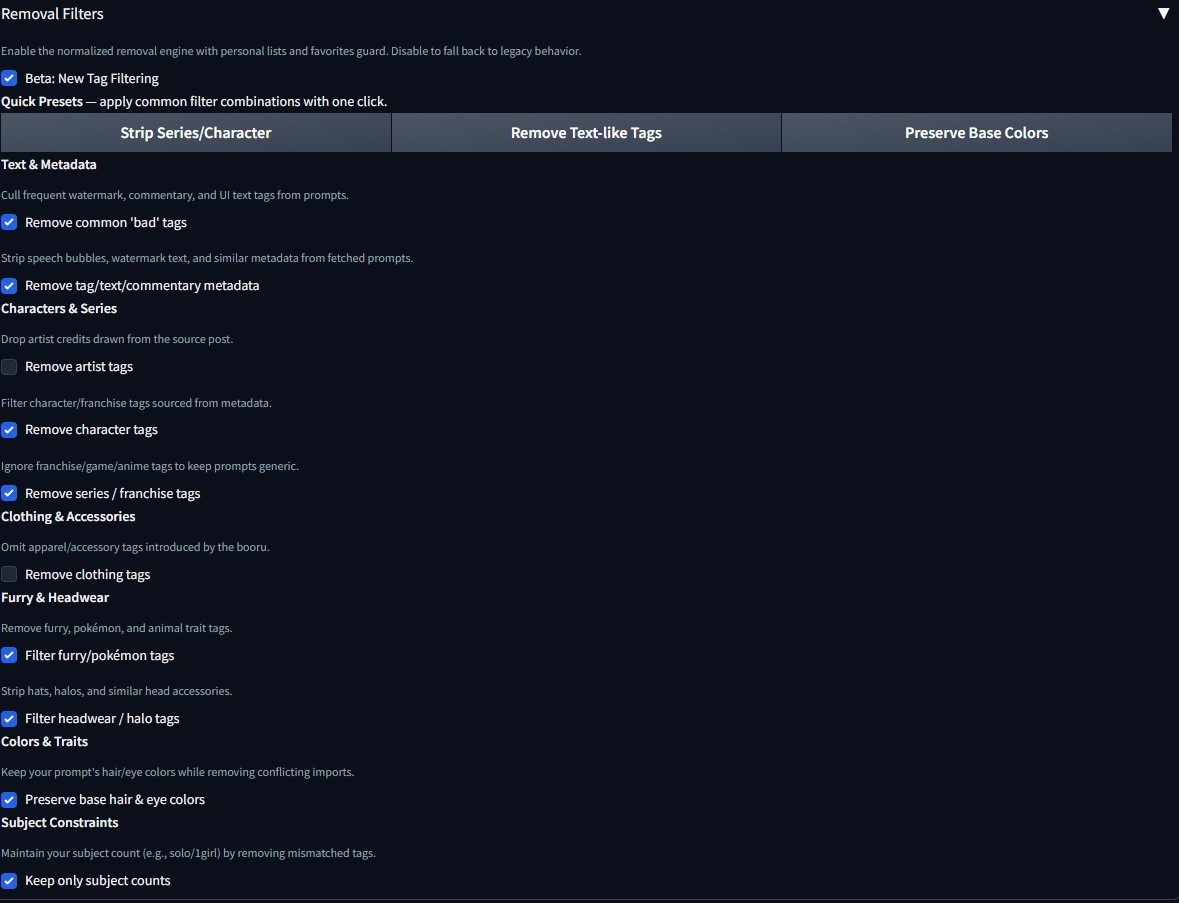
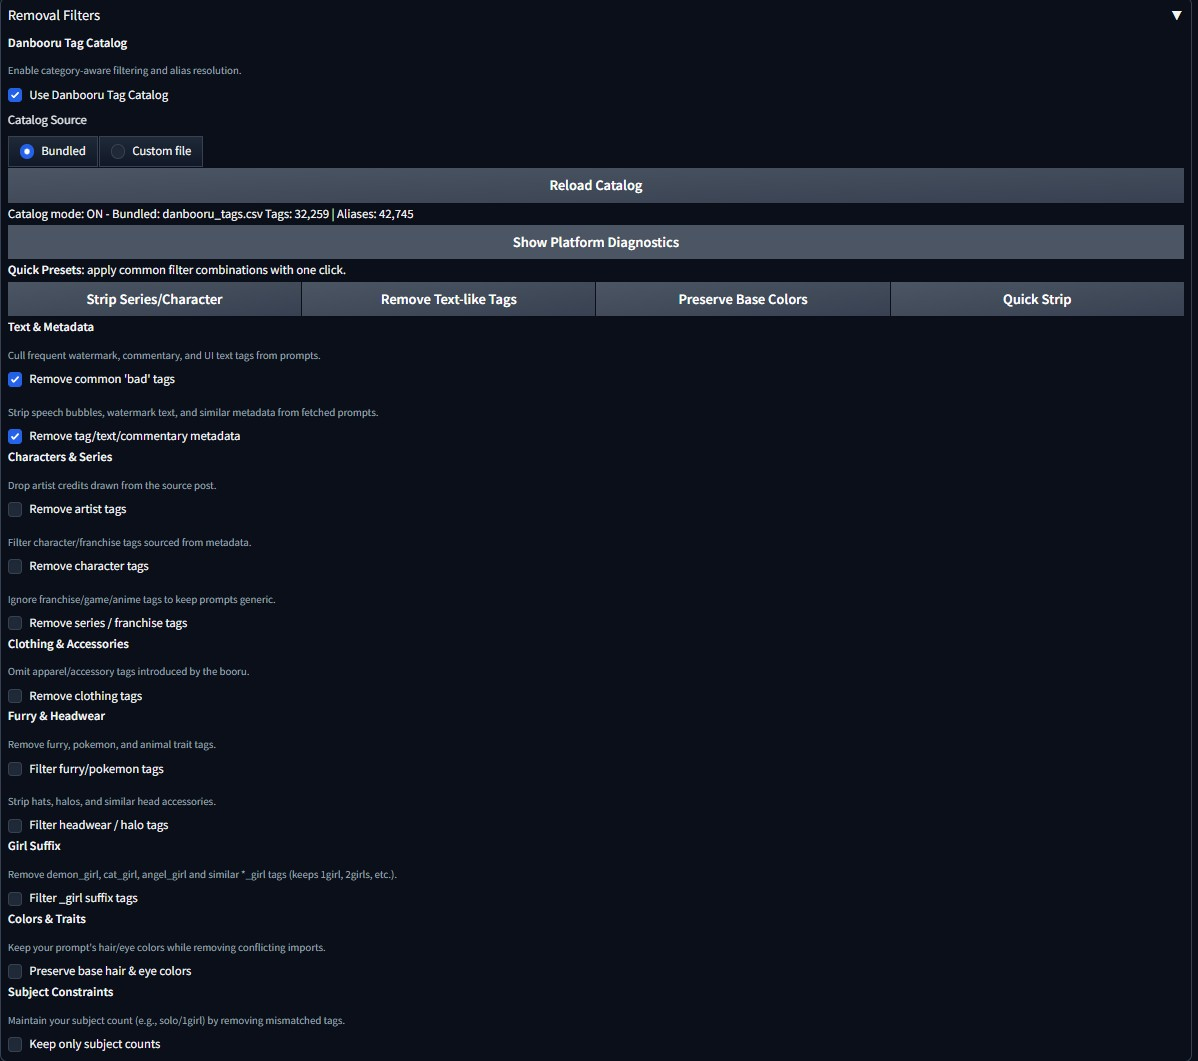
docs(readme): overhaul README layout, update image assets, & collapse env overrides
Summary of changes:
- **Image Assets**: Replaced `pics/image.png` with `pics/image.jpg` and embedded `pics/filters.jpg` under the Tag Filters section.
- **Workflow Guide**: Merged and updated Quick Start, Tag Catalog, and Two-Pass Img2Img + ADetailer / ADetailer Neo pipeline into a unified workflow guide.
- **Collapsible Overrides**: Converted Environment Configuration Overrides into an expandable HTML dropdown (`<details><summary>`).
- **Developer Documentation**: Added a cross-platform Developer & Verification guide with execution instructions for Windows (PowerShell/CMD) and Linux/macOS.

Changed region(s): [[0.0, 0.0, 1.0, 1.0], [0.9771, 0.0, 1.0, 0.031]]

diff --git a/README.md b/README.md
@@ -10,20 +10,20 @@ RanbooruX is a fork of Ranbooru built **exclusively for Forge Neo**, featuring n
 
 It fetches booru tags and source images, builds prompts, and supports a two-stage generation flow with Img2Img, ControlNet handoff, and ADetailer / ADetailer Neo postprocessing.
 
+![UI screenshot](pics/image.jpg)
+
 ## Features & Exclusive Fork Capabilities
 
 RanbooruX delivers massive architectural and feature upgrades over original Ranbooru:
 
 - **Forge Neo & ADetailer Neo Native Support**: Built exclusively for Forge Neo, with full support for ADetailer Neo and standard ADetailer in two-pass Img2Img workflows.
-- **Anima (2B DiT) Support**: Native auto-detection of Anima models with automatic flow-matching scheduler tuning, prompt quality prefixes, and working basic Img2Img support.
+- **Anima (2B DiT) Support**: Native auto-detection of Anima models with automatic flow-matching scheduler tuning, prompt quality prefixes, and working basic Img2Img & ControlNet LLLite support.
 - **Danbooru Tag Catalog System**: Bundled tag catalog (`data/catalogs/danbooru_tags.csv`) providing alias normalization, category-aware filtering, custom CSV import, and hair/eye color preservation.
 - **Safer Two-Pass Img2Img & Guarded Postprocessing**: Preview guard suppresses initial-pass flashes until final img2img outputs are rendered; guarded script runner prevents script collisions.
 - **Rich Booru & Tag Removal Filters**: Multi-booru search (`aibooru`, `danbooru`, `e621`, `gelbooru`, `konachan`, `rule34`, `safebooru`, `xbooru`, `yande.re`) with fine-grained removal toggles (artist, character, series, clothing, commentary, furry, headwear, `*_girl` suffix cleanup).
 - **LoRAnado Random LoRA Injection**: Automatic detection and control surfaces for PonyXL & Anima-compatible LoRAs with blacklist support.
 - **Modular Codebase & Quality Tooling**: Refactored from a monolithic script into a clean `ranboorux/` module with unit tests (`pytest`), strict type checking (`mypy`), linting (`ruff`), and formatting (`black`).
 - **User Conveniences**: Favorites management, file-driven tag sources, prompt/source logging, and sensible caching.
-
-![UI screenshot](pics/image.png)
 
 ## Installation
 
@@ -44,22 +44,64 @@ RanbooruX delivers massive architectural and feature upgrades over original Ranb
 3. `install.py` installs extension dependencies from `requirements.txt`.
 4. Open the **RanbooruX** panel.
 
-### Environment Configuration Overrides
+<details>
+<summary><b>Environment Configuration Overrides</b></summary>
 
-RanbooruX supports optional environment variables to override ControlNet detection paths:
+If your Forge Neo ControlNet extension is located in a custom or non-standard directory outside of `extensions/sd_forge_controlnet` or `extensions-builtin/sd_forge_controlnet`, RanbooruX supports optional environment variables to override the ControlNet detection path:
 
-- `SD_FORGE_CONTROLNET_PATH`: Custom path to the Forge ControlNet extension or module directory.
-- `RANBOORUX_CN_PATH`: Custom path to ControlNet model or script assets monitored by RanbooruX.
+* `SD_FORGE_CONTROLNET_PATH`: Primary override pointing to the root directory of `sd_forge_controlnet` (containing `lib_controlnet/external_code.py`).
+* `RANBOORUX_CN_PATH`: Secondary fallback override path for RanbooruX ControlNet asset resolution.
 
-## Quick start
+#### How to Configure
 
-1. Select a booru source.
-2. Enter tags and generate.
-3. Optional: enable `Use Image for Img2Img`.
-4. Optional: enable `Use Image for ControlNet (Unit 0)`.
-5. Optional: enable `Enable RanbooruX ADetailer support` (supports both ADetailer and ADetailer Neo).
+##### Option 1: In WebUI Startup Scripts (Recommended)
+Add the environment variable directly to your WebUI launcher so it persists across restarts:
 
-## Danbooru Tag Catalog
+* **Windows (`webui-user.bat`)**:
+  ```cmd
+  set SD_FORGE_CONTROLNET_PATH=C:\path\to\sd_forge_controlnet
+  ```
+* **Linux / macOS (`webui-user.sh`)**:
+  ```bash
+  export SD_FORGE_CONTROLNET_PATH="/path/to/sd_forge_controlnet"
+  ```
+
+##### Option 2: Terminal / Shell
+
+* **Windows PowerShell**:
+  ```powershell
+  $env:SD_FORGE_CONTROLNET_PATH="C:\path\to\sd_forge_controlnet"
+  ```
+* **Windows Command Prompt (`cmd.exe`)**:
+  ```cmd
+  set SD_FORGE_CONTROLNET_PATH=C:\path\to\sd_forge_controlnet
+  ```
+* **Linux / macOS (`bash` / `zsh`)**:
+  ```bash
+  export SD_FORGE_CONTROLNET_PATH="/path/to/sd_forge_controlnet"
+  ```
+
+</details>
+
+## Quick Start & Usage Workflow
+
+RanbooruX integrates prompt fetching, tag catalog processing, two-pass generation, ControlNet handoff, and postprocessing into a streamlined workflow:
+
+1. **Select Source & Query Tags**: Choose a booru source (`danbooru`, `gelbooru`, `e621`, etc.), enter your desired search tags, and specify post limits.
+2. **Apply Tag Catalog & Removal Filters**: Keep `Use Danbooru Tag Catalog` enabled (default ON) for alias normalization and category-aware filtering. Configure tag removal toggles to strip unwanted artist/character/clothing metadata.
+3. **Configure Image Handoff (Optional)**:
+   - Check `Use Image for Img2Img` to run an initial pass followed by an Img2Img pass with automatic denoising caps.
+   - Check `Use Image for ControlNet (Unit 0)` to automatically pass the fetched booru image into Forge Neo's ControlNet Unit 0 slot.
+4. **Enable Postprocessing (Optional)**: Check `Enable RanbooruX ADetailer support` to automatically run a guarded manual ADetailer or ADetailer Neo pass on the final outputs.
+5. **Generate**: Click **Generate** — RanbooruX fetches posts, processes prompts, and executes the multi-pass pipeline automatically.
+
+## Tag Filters & Catalog Processing
+
+RanbooruX provides powerful tag filtering and catalog normalization to keep prompts clean and coherent.
+
+![Tag Removal Filters](pics/filters.jpg)
+
+### Danbooru Tag Catalog
 
 RanbooruX includes a bundled catalog used by the tag-catalog pipeline.
 
@@ -67,30 +109,30 @@ RanbooruX includes a bundled catalog used by the tag-catalog pipeline.
 - Catalog mode toggle: `Use Danbooru Tag Catalog` (default ON)
 - Source selection: `Bundled` or `Custom file`
 
-With catalog mode enabled (default), the catalog pipeline adds:
+With catalog mode enabled (default), the pipeline provides:
+- Alias normalization (maps variant tags to canonical Danbooru tags)
+- Category-aware tag filtering (artist, character, series, meta, general)
+- Smart hair & eye color preservation
+- Textual & commentary tag cleanup
 
-- alias normalization
-- category-aware filtering
-- better hair/eye preservation behavior
-- textual/meta tag cleanup backed by catalog categories
+### Custom Catalog Files
 
-### Custom catalog files
-
-Custom CSV catalogs are supported and imported into `user/catalogs/`.
+Custom CSV catalogs can be imported into `user/catalogs/` via the UI.
 
 Accepted formats:
 - Header-based CSV (`tag,category,count,alias`)
 - Headerless 4-column CSV (`tag,category,count,alias`)
 
-Validation and import controls (`Validate CSV`, `Import Custom Catalog`, `Reload Catalog`) are available in the UI.
+Validation and management buttons (`Validate CSV`, `Import Custom Catalog`, `Reload Catalog`) are provided in the UI.
 
 ## Two-Pass Img2Img + ADetailer / ADetailer Neo Pipeline
 
-For Img2Img workflows, RanbooruX executes an initial pass, followed by an Img2Img pass, and an optional manual ADetailer / ADetailer Neo postprocessing pass.
+For Img2Img workflows, RanbooruX executes a coordinated multi-stage process:
 
-- First-pass previews are suppressed until final images are ready (preview guard).
-- Final results are forced back into processed image state for extension and UI consistency.
-- Native script discovery automatically detects both standard ADetailer and ADetailer Neo at gather and removal stages.
+1. **Initial Pass & Preview Guard**: Generates the base image while suppressing intermediate preview flashes until final images are rendered.
+2. **Img2Img Pass**: Automatically applies tuned denoising caps to refine details without breaking composition.
+3. **ControlNet Handoff**: When `Use Image for ControlNet (Unit 0)` is enabled, the fetched booru reference image is automatically assigned to Unit 0 in Forge Neo's ControlNet runner.
+4. **ADetailer / ADetailer Neo Pass**: Runs a guarded postprocessing pass on the final images, auto-detecting both standard ADetailer and ADetailer Neo scripts.
 
 ## Anima Model Support
 
@@ -162,18 +204,44 @@ Original Ranbooru was a monolithic single-script extension (~1.1k lines). Ranboo
 - InputAccordion includes compatibility fallbacks for environments where it is unavailable.
 - Gradio update calls are routed through compatibility helpers for Gradio 3/4 behavior.
 
-## Verification Status
+## Developer & Verification Guide
 
-RanbooruX includes automated test coverage for wrappers, catalog behavior, parsing, and integration boundaries.
+RanbooruX uses a modular architecture with comprehensive automated tests, linting, and type safety checks.
 
-Run checks locally:
+### Repository Architecture
+- `scripts/ranbooru.py`: WebUI Extension entry point and Gradio UI definition.
+- `ranboorux/`: Core modular package (catalog pipeline, booru API clients, ADetailer runtime/orchestration, ControlNet integration, Anima model detection).
+- `tests/`: Automated test suite covering wrappers, catalog processing, ADetailer runtime, and lifecycle contracts.
+- `tools/`: CI helper scripts (`check_no_gradio_update.py`, `repo_guard.py`).
 
+### Cross-Platform Development Commands
+
+Run tests, linters, and type checkers locally in your operating system environment:
+
+#### Windows (PowerShell)
+```powershell
+$env:PYTHONPATH="."
+python -m pytest tests/ -q
+python -m ruff check scripts/ranbooru.py ranboorux tests tools install.py
+python -m black --check scripts/ranbooru.py ranboorux tests tools install.py
+python -m mypy ranboorux --warn-return-any --warn-unused-ignores
+```
+
+#### Windows (Command Prompt `cmd.exe`)
+```cmd
+set PYTHONPATH=.
+python -m pytest tests/ -q
+python -m ruff check scripts/ranbooru.py ranboorux tests tools install.py
+python -m black --check scripts/ranbooru.py ranboorux tests tools install.py
+python -m mypy ranboorux --warn-return-any --warn-unused-ignores
+```
+
+#### Linux / macOS (`bash` / `zsh`)
 ```bash
-PYTHONPATH=. pytest -q
-PYTHONPATH=. pytest -q --gradio-version=4
-python3 -m ruff check scripts/ranbooru.py ranboorux tests tools install.py
-python3 -m black --check scripts/ranbooru.py ranboorux tests tools install.py
-python3 -m mypy ranboorux --warn-return-any --warn-unused-ignores
+PYTHONPATH=. python3 -m pytest tests/ -q
+PYTHONPATH=. python3 -m ruff check scripts/ranbooru.py ranboorux tests tools install.py
+PYTHONPATH=. python3 -m black --check scripts/ranbooru.py ranboorux tests tools install.py
+PYTHONPATH=. python3 -m mypy ranboorux --warn-return-any --warn-unused-ignores
 ```
 
 ## LoRAnado (PonyXL & Anima detection)
